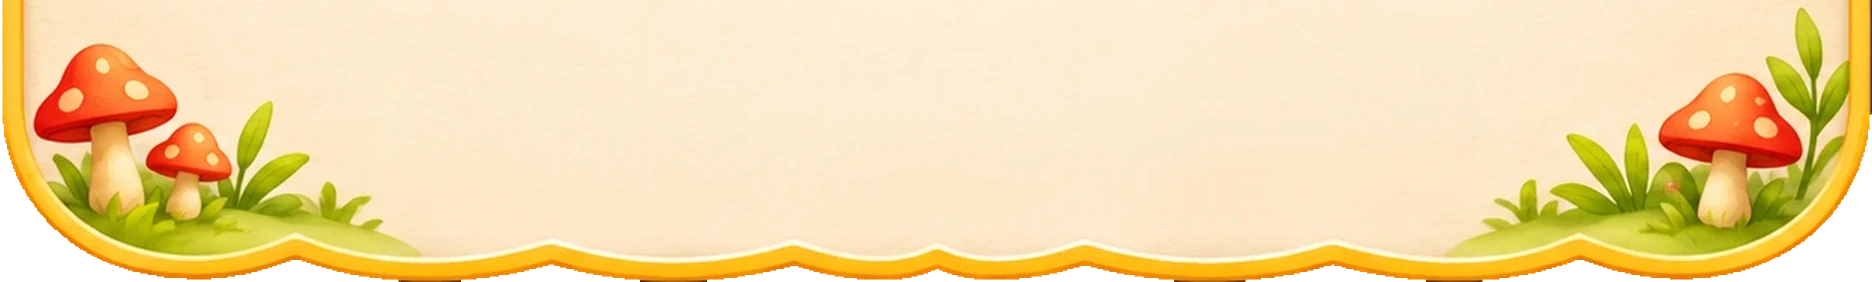
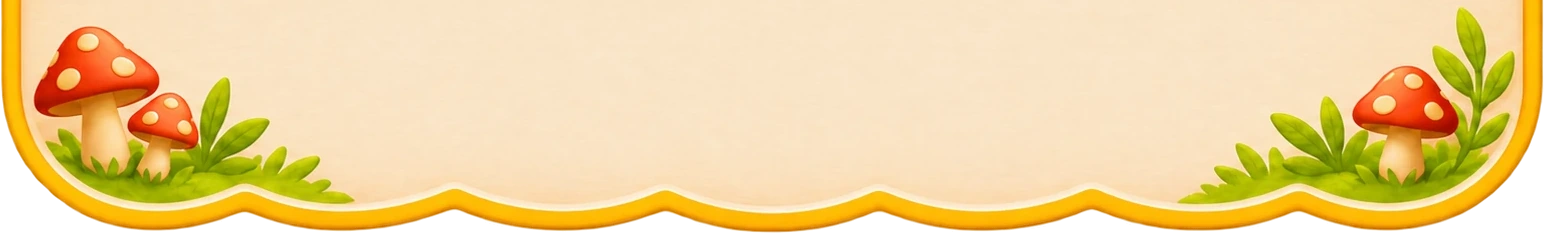
fix(reader): the language panels use the operator's own frame, with no cut edges
The frame of Compare Languages and Change Language was cut out of a mock-up
that had words, buttons and a dimmed page behind it, and the cut showed on
all four sides: stair-steps along the rim and a pale wedge at the dips in
its top.

The operator has sent the empty panel as its own picture with a clear
ground. The art script now only trims it to the panel and slices it into the
top, the middle the app stretches to the list, and the bottom, at the
picture's own size and with its own soft edge; the cutting, wiping and crest
repair are gone. Two housekeeping changes are made to it: a haze of
all-but-clear pixels round the outside is made fully clear, and the
all-but-solid inside fully solid.

The script maps the picture onto the layout's 1248 units by its width, so
the heading, switch, close coin, list and Done sit on the new frame with no
change to the app's code. The frame is also larger than the mock-up, so it
is enlarged about 1.1x on a phone where the cut-out was enlarged 1.4x.

The mock-up stays in the source folder as the drawing the layout and the
buttons' colours came from; no picture in the app comes from it now.
compliance/ASSET-REGISTER.md §5j and ARCHITECTURE.md say so.

Tests: language-panel and story-book-reader suites, 199 tests, tsc clean;
no app code changed, so the full suite was not rerun. Art checked zoomed in
and Compare Languages on the iPhone simulator; Change Language not reopened,
tablet and Android not seen.

Changed region(s): [[0.0, 0.0, 1.0, 1.0]]

diff --git a/grow-with-freya/scripts/prepare-language-panel.py b/grow-with-freya/scripts/prepare-language-panel.py
@@ -7,125 +7,47 @@ from PIL import Image
 from scipy import ndimage
 
 ROOT = Path(__file__).resolve().parent.parent / 'assets' / 'images' / 'reader-languages'
-HEADROOM = 14
-SCALE = 1.5
-WIPED = ((360, 70, 1240, 184), (104, 184, 770, 234), (80, 246, 1240, 560), (296, 588, 1014, 712))
-GRAIN_BOX = (790, 186, 1210, 240)
-CREST = {'centre': (655.0, 9.3), 'reach': (27.0, 20.3), 'tip': (659.5, -0.4), 'tip_reach': (4.5, 1.5)}
-CREST_FACE = (240, 205, 160)
-CREST_TIP = (255, 226, 106)
-SLICE_TOP = 244
-SLICE_BOTTOM = 560
-RIM = 30
+PANEL = {'width': 1248, 'top': 258, 'bottom': 188}
 LIST = (63, 1192)
 PEEK = 26
 LIST_PAD = 11
-EDGE_TRIM = 1.2
-EDGE_CLEAN = 2.5
+HAZE = 8
+SOLID = 245
 
 
-def panel_shape(rgb: np.ndarray) -> np.ndarray:
-    brightest = rgb.max(axis=2)
-    spread = brightest - rgb.min(axis=2)
-    lit = ((brightest > 150) & ((spread > 22) | (brightest > 215))) | ((spread > 45) & (brightest > 75))
-    labels, count = ndimage.label(lit)
-    sizes = ndimage.sum(lit, labels, range(1, count + 1))
-    whole = ndimage.binary_fill_holes(labels == 1 + int(np.argmax(sizes)))
-    return ndimage.binary_opening(whole, iterations=3)
-
-
-def with_headroom(rgb: np.ndarray, shape: np.ndarray):
-    height, width = shape.shape
-    tall_rgb = np.zeros((height + HEADROOM, width, 3))
-    tall_rgb[HEADROOM:] = rgb
-    tall_shape = np.zeros((height + HEADROOM, width), bool)
-    tall_shape[HEADROOM:] = shape
-    ys, xs = np.mgrid[-HEADROOM:0, 0:width]
-    (cx, cy), (rx, ry) = CREST['centre'], CREST['reach']
-    cap = ((xs - cx) / rx) ** 2 + ((ys - cy) / ry) ** 2 <= 1
-    (tx, ty), (trx, try_) = CREST['tip'], CREST['tip_reach']
-    tip = ((xs - tx) / trx) ** 2 + ((ys - ty) / try_) ** 2 <= 1
-    head = tall_rgb[:HEADROOM]
-    head[cap] = CREST_FACE
-    head[tip] = CREST_TIP
-    tall_shape[:HEADROOM] = cap
-    return tall_rgb, tall_shape
-
-
-def wiped_mask(shape, offset: int) -> np.ndarray:
-    mask = np.zeros(shape, bool)
-    for x0, y0, x1, y1 in WIPED:
-        mask[y0 + offset:y1 + offset, x0:x1] = True
-    return mask
-
-
-def refill(rgb: np.ndarray, gone: np.ndarray, paper: np.ndarray) -> np.ndarray:
-    known = paper & ~gone
-    weight = known.astype(float)
-    filled = rgb * weight[..., None]
-    reach = 6.0
-    guess = np.zeros_like(rgb)
-    missing = np.ones(gone.shape, bool)
-    while missing.any() and reach < 2000:
-        spread = ndimage.gaussian_filter(weight, reach)
-        colour = np.dstack([ndimage.gaussian_filter(filled[..., c], reach) for c in range(3)])
-        ready = missing & (spread > 0.02)
-        guess[ready] = colour[ready] / spread[ready][:, None]
-        missing &= ~ready
-        reach *= 2
-    out = rgb.copy()
-    out[gone] = guess[gone]
-    blend = (gone | known).astype(float)
-    for _ in range(40):
-        spread = ndimage.gaussian_filter(blend, 4)
-        colour = np.dstack([ndimage.gaussian_filter(out[..., c] * blend, 4) for c in range(3)])
-        out[gone] = colour[gone] / np.maximum(spread[gone], 1e-6)[:, None]
+def tidy(frame: np.ndarray) -> np.ndarray:
+    out = frame.copy()
+    alpha = out[..., 3]
+    alpha[alpha <= HAZE] = 0
+    alpha[alpha >= SOLID] = 255
+    _, nearest = ndimage.distance_transform_edt(alpha < 128, return_indices=True)
+    clear = alpha == 0
+    out[clear, :3] = out[nearest[0], nearest[1], :3][clear]
     return out
 
 
-def grain(rgb: np.ndarray, offset: int, height: int, width: int) -> np.ndarray:
-    x0, y0, x1, y1 = GRAIN_BOX
-    patch = rgb[y0 + offset:y1 + offset, x0:x1]
-    rough = patch - np.dstack([ndimage.gaussian_filter(patch[..., c], 5) for c in range(3)])
-    tile = np.concatenate([rough, rough[::-1]], axis=0)
-    tile = np.concatenate([tile, tile[:, ::-1]], axis=1)
-    return np.tile(tile, (height // tile.shape[0] + 1, width // tile.shape[1] + 1, 1))[:height, :width]
-
-
-def cut_out(rgb: np.ndarray, shape: np.ndarray) -> Image.Image:
-    height, width = shape.shape
-    size = (round(width * SCALE), round(height * SCALE))
-    inside = ndimage.distance_transform_edt(shape) - ndimage.distance_transform_edt(~shape)
-    depth = np.array(Image.fromarray(inside.astype(np.float32), mode='F').resize(size, Image.BICUBIC))
-    big = np.array(Image.fromarray(np.clip(rgb, 0, 255).astype(np.uint8)).resize(size, Image.LANCZOS)).astype(float)
-    clean = depth > EDGE_CLEAN
-    _, nearest = ndimage.distance_transform_edt(~clean, return_indices=True)
-    big = big[nearest[0], nearest[1]]
-    alpha = np.clip((depth - EDGE_TRIM) * SCALE + 0.5, 0, 1)
-    return Image.fromarray(np.dstack([big, alpha * 255]).clip(0, 255).astype(np.uint8))
+def save(pixels: np.ndarray, path: Path) -> None:
+    Image.fromarray(pixels.clip(0, 255).astype(np.uint8)).save(path, quality=94, method=6, exact=True)
 
 
 def main() -> None:
-    parser = argparse.ArgumentParser(description="Make the reader's language panel from the operator's mock-up in reader-languages/source.")
+    parser = argparse.ArgumentParser(description="Make the reader's language panel from the operator's frame in reader-languages/source.")
     parser.add_argument('--out', type=Path, default=ROOT)
     args = parser.parse_args()
-    mock = np.array(Image.open(ROOT / 'source' / 'compare-mock.webp').convert('RGB')).astype(float)
-    rgb, shape = with_headroom(mock, panel_shape(mock))
-    gone = wiped_mask(shape.shape, HEADROOM) & (ndimage.distance_transform_edt(shape) > RIM)
-    paper = (rgb[..., 0] > 232) & (rgb[..., 1] > 212) & (rgb[..., 2] > 175) & (rgb[..., 0] - rgb[..., 2] < 80) & shape
-    face = refill(rgb, gone, paper)
-    face[gone] += grain(rgb, HEADROOM, *shape.shape)[gone]
-    ys, xs = np.nonzero(shape)
-    left, right, bottom = xs.min(), xs.max() + 1, ys.max() + 1
-    panel = cut_out(face[:bottom, left:right], shape[:bottom, left:right])
-    top, low = round((SLICE_TOP + HEADROOM) * SCALE), round((SLICE_BOTTOM + HEADROOM) * SCALE)
-    for name, box in (('top', (0, 0, panel.width, top)), ('middle', (0, top, panel.width, low)), ('bottom', (0, low, panel.width, panel.height))):
-        panel.crop(box).save(args.out / f'panel-{name}.webp', quality=92, method=6)
-    for name, box, ramp in (('fade-top', (top, top + round(LIST_PAD * SCALE)), (1, 0)), ('fade', (low - round(PEEK * SCALE), low), (0, 1))):
-        strip = np.array(panel.crop((round(LIST[0] * SCALE), box[0], round(LIST[1] * SCALE), box[1]))).astype(float)
+    frame = tidy(np.array(Image.open(ROOT / 'source' / 'frame.webp').convert('RGBA')).astype(float))
+    ys, xs = np.nonzero(frame[..., 3] > 0)
+    panel = frame[ys.min():ys.max() + 1, xs.min():xs.max() + 1]
+    height, width = panel.shape[:2]
+    per_unit = width / PANEL['width']
+    top, low = round(PANEL['top'] * per_unit), height - round(PANEL['bottom'] * per_unit)
+    for name, rows in (('top', (0, top)), ('middle', (top, low)), ('bottom', (low, height))):
+        save(panel[rows[0]:rows[1]], args.out / f'panel-{name}.webp')
+    left, right = round(LIST[0] * per_unit), round(LIST[1] * per_unit)
+    for name, rows, ramp in (('fade-top', (top, top + round(LIST_PAD * per_unit)), (1, 0)), ('fade', (low - round(PEEK * per_unit), low), (0, 1))):
+        strip = panel[rows[0]:rows[1], left:right].copy()
         strip[..., 3] *= np.linspace(*ramp, strip.shape[0])[:, None] ** 0.8
-        Image.fromarray(strip.astype(np.uint8)).save(args.out / f'panel-{name}.webp', quality=92, method=6)
-    print('panel', panel.size, 'slices', top, low, 'origin', (int(left), -HEADROOM), 'scale', SCALE)
+        save(strip, args.out / f'panel-{name}.webp')
+    print('panel', (width, height), 'slices', top, low, 'pixels per unit', round(per_unit, 4), 'middle units', round((low - top) / per_unit, 1))
 
 
 if __name__ == '__main__':

diff --git a/compliance/ASSET-REGISTER.md b/compliance/ASSET-REGISTER.md
@@ -29,7 +29,7 @@ marked **⚠ UNVERIFIED**.
 | The clouds behind every book's words, one with faces and one with instruments for music books (the operator's pictures, 2026-11-11) | Registered below, §5g — origin and licence ⚠ UNVERIFIED |
 | The Play button on a book's music pages (the operator's picture, 2026-11-11) | Registered below, §5h — origin and licence ⚠ UNVERIFIED |
 | The reader's menu: its painted panel, row icons and row arrow (the operator's pictures, 2026-11-11) | Registered below, §5i — origin and licence ⚠ UNVERIFIED |
-| The reader's Compare Languages and Change Language panels: the painted frame (cut from the operator's mock-up, 2026-11-12) | Registered below, §5j — origin and licence ⚠ UNVERIFIED |
+| The reader's Compare Languages and Change Language panels: the painted frame (the operator's picture, 2026-11-12) | Registered below, §5j — origin and licence ⚠ UNVERIFIED |
 | The lock on the island's learning-plan checkpoints | Registered below, §6 — the supplied picture is not drawn since 2026-10-03 (a padlock drawn in code replaced it); the file remains, origin ⚠ UNVERIFIED |
 | Everything else — avatars, story illustrations, instrument art, music, fonts, voices (the feelings game's art and the spelling game's art left with those games on 2026-10-16; the nine bear and animal faces the badges draw stay in `assets/images/emotions/`) | **Not registered.** Origin is not recorded anywhere in the repository — ⚠ UNVERIFIED |
 
@@ -282,17 +282,18 @@ sign-in sky, the owl and the badge art.
 
 | File (under `grow-with-freya/assets/images/reader-languages/`) | Where from | What was changed |
 |---|---|---|
[1 lines of base64/hex data omitted]
-| `panel-top.webp` (1872×387), `panel-middle.webp` (1872×474), `panel-bottom.webp` (1872×282) | Cut from the mock-up by `grow-with-freya/scripts/prepare-language-panel.py` | The panel (gold rim, leaf sprig, orange crest, mushrooms and grass) lifted off the dark page behind it by brightness and colour, its edge trimmed just over a pixel so no dark fringe rides along. The words, the language buttons, the switch, the close coin and Done are wiped from the cream face: those areas are filled from the paper around them and given the paper's own grain, taken from a clean patch of the same picture. The crest's middle petal is cut off by the top edge of the mock-up; its cream surround is finished as a plain arc in the surround's colour, about ten pixels of it, and the petal's tip with two pixels of its highlight colour. Enlarged 1.5× and cut into a top, a middle the app stretches to the list, and a bottom. Nothing else from outside the operator's picture is added |
-| `panel-fade.webp` (1694×39), `panel-fade-top.webp` (1694×16) | Strips of the same cleaned panel face, from the foot and the head of the list area, by the same script | Made see-through along a ramp, so the list fades under them |
[2 lines of base64/hex data omitted]
+| `panel-top.webp` (1544×319), `panel-middle.webp` (1544×352), `panel-bottom.webp` (1544×233) | `source/frame.webp`, sliced by `grow-with-freya/scripts/prepare-language-panel.py` | Trimmed to the panel and cut into a top, a middle the app stretches to the list, and a bottom, at the picture's own size and with its own soft edge. Two housekeeping changes only: a haze of all-but-clear pixels round the outside (8 parts in 255 or less) is made fully clear, and the panel's all-but-solid inside (245 or more) fully solid. Nothing is redrawn, recoloured or added |
+| `panel-fade.webp` (1397×32), `panel-fade-top.webp` (1397×14) | Strips of the same panel's face, from the foot and the head of the list area, by the same script | Made see-through along a ramp, so the list fades under them |
 | The heading, hint, switch, close coin, language buttons, ticks and Done | Drawn by the app (`components/stories/language-panel.tsx`) in colours sampled from the mock-up; the flags are the system's emoji, not the mock-up's painted flags (it shows nine languages, the app has fourteen) | Made for the app |
 
 | Question | Answer |
 |---|---|
-| Who made it, and with what | ⚠ UNVERIFIED — the picture arrived with no record of its origin. It has the look of a generated image; the operator to say which service and account, or which artist |
+| Who made it, and with what | ⚠ UNVERIFIED — the pictures arrived with no record of their origin. They have the look of generated images; the operator to say which service and account, or which artist |
 | Terms for commercial use, and who owns it | ⚠ UNVERIFIED — depends on the answer above |
 | Checked by eye against well-known games and films | **Not yet done by a person** |
-| Quality | The panel is 1248 pixels wide in the mock-up and stored at 1872. It is drawn about 580 points wide on a phone on its side (1740 pixels at 3×) and up to 780 points on a tablet (1560 at 2×, more with larger text), so the painted rim, leaves and mushrooms are enlarged about 1.4× from the mock-up and are a little soft close up; a full-size picture of the frame from the operator would cure it |
+| Quality | The panel is 1544 pixels wide as stored. It is drawn about 580 points wide on a phone on its side (1740 pixels at 3×) and up to 780 points on a tablet (1560 at 2×, more with larger text), so it is enlarged about 1.1× on a phone and hardly at all on a tablet |
 
 ## 7. Wombat's Picnic Count (the first game pack)
 

diff --git a/grow-with-freya/ARCHITECTURE.md b/grow-with-freya/ARCHITECTURE.md
@@ -2072,10 +2072,12 @@ under Reduce Motion), and while closed it takes no touches and is hidden from th
 
 **The reader's language panels (2026-11-12).** Compare Languages and Change Language both open
 `LanguagePanel` (`components/stories/language-panel.tsx`, art in `assets/images/reader-languages/`,
-cut by `scripts/prepare-language-panel.py`, §5j), drawn to the operator's mock-up: a cream panel in
-a gold rim with a leaf sprig, an orange crest and mushrooms, over the dimmed page. The frame is
-three pictures (top, a middle stretched to the list, bottom); everything on it is drawn by the app
-from `LANGUAGE_PANEL`, in the mock-up's own units times one scale: the heading, the close coin, the
+sliced by `scripts/prepare-language-panel.py`, §5j), drawn to the operator's mock-up: a cream panel in
+a gold rim with a leaf sprig, an orange crest and mushrooms, over the dimmed page. The frame is the
+operator's own picture of the empty panel, with its own soft edge, in three slices (top, a middle
+stretched to the list, bottom); the script maps it onto the layout's 1248 units by its width, so a
+new frame picture needs only `PANEL` there to match `LANGUAGE_PANEL`. Everything on it is drawn by
+the app from `LANGUAGE_PANEL`, in the mock-up's own units times one scale: the heading, the close coin, the
 languages three to a line (flag emoji, own name, a tick when chosen) and Done. Compare Languages
 adds its ON/OFF switch and a hint; the language being read is gold (`reading`), the one beside it
 teal (`comparing`), and the rules for a press are unchanged and stay in the reader. Change
